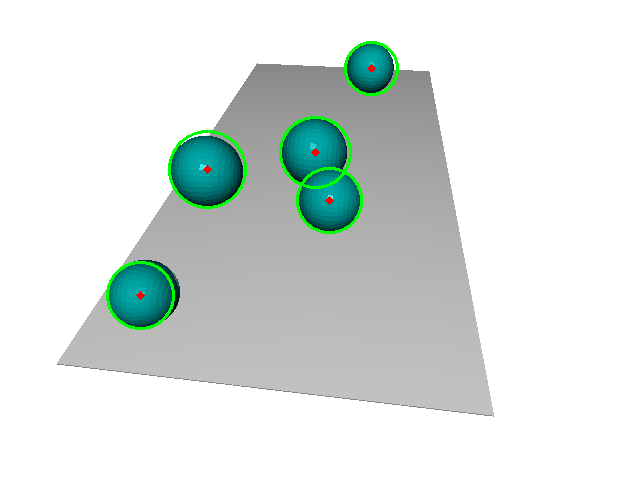
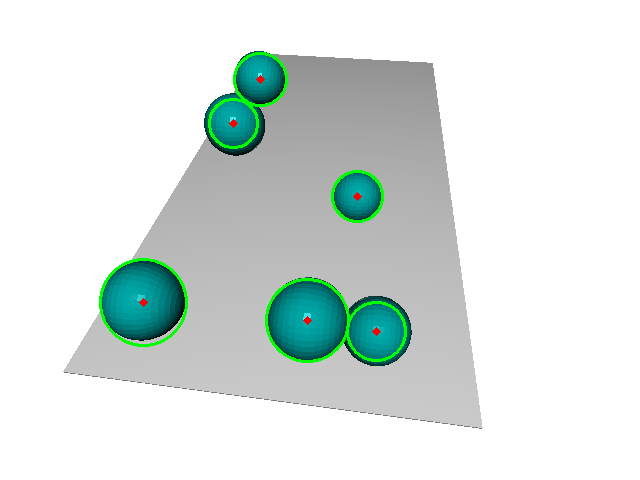
reconstruction and finish to task7

diff --git a/CWII2324-v2.py b/CWII2324-v2.py
@@ -304,7 +304,7 @@ if __name__ == '__main__':
     circles0 = detect_circles(img0)
     circles1 = detect_circles(img1)
     detected_centers0 = []
-
+    detected_centers1 = []
     # Process and display the results
     if circles0 is not None:
         circles0 = np.uint16(np.around(circles0))
@@ -322,6 +322,7 @@ if __name__ == '__main__':
             cv2.circle(img1, (i[0], i[1]), i[2], (0, 255, 0), 2)
             # Draw the center of the circle
             cv2.circle(img1, (i[0], i[1]), 2, (0, 0, 255), 3)
+            detected_centers1.append(np.array([i[0], i[1], 1]))
 
     # Save the images with the drawn circles
     cv2.imwrite('hough_circles_img0.png', img0)
@@ -339,76 +340,39 @@ if __name__ == '__main__':
     
     Write your code here
     '''
-    # # Define matrices for coordinate conversion
-    # sx = sy = 1  # Pixel sizes in Open3D are both 1
-    # Mpi = np.array([[sx, 0, -ox / f], [0, sy, -oy / f], [0, 0, 1]])
-    # Mip = np.linalg.inv(Mpi)
-    #
-    # # get coordinate transformation from cam1 to cam0
-    # H_10 = np.matmul(H0_wc, np.linalg.inv(H1_wc))
-    #
-    # # this gives P0=R10*P1+T10
-    # # hence P1=R10^T(P0-T10)
-    # R = H_10[:3, :3].T  # R10^T
-    # T = H_10[:3, 3]  # T10
-    #
-    # # form the cross pdt matrix S from T
-    # S = np.array([
-    #     [0, -T[2], T[1]],
-    #     [T[2], 0, -T[0]],
-    #     [-T[1], T[0], 0]
-    # ])
-    #
-    # # the essential matrix
-    # E = np.matmul(R, S)
-    # print('Essential Matrix')
-    # print(E)
-    #
-    # # use the pixel to image coordinate matrix to compute the fundamental matrix
-    # F = np.matmul(np.matmul(Mpi.T, E), Mpi)
-    # print('Fundamental Matrix:')
-    # print(F)
-
-    # sx=sy=1
     Mpi=np.linalg.inv(K.intrinsic_matrix)
     # now compute matrix which converts iamge coordinates to pixel coordinates
-    # Mip=np.linalg.inv(Mpi)
 
     H_10 = np.matmul(H0_wc, np.linalg.inv(H1_wc))
 
     # this gives P0=R10*P1+T10
-    # hence P1=R10^T(P0-T10) which is in the same the form as slide 3, lec 2
+    # hence P1=R10^T(P0-T10) which is in the same the form
     # hence
     R = H_10[:3, :3].T # R10^T
     T = H_10[:3, 3] # T10
 
-    # now form the cross pdt matrix S from T - slide 9, lec 2
+    # now form the cross pdt matrix S from T
     S = np.array([
         [0, -T[2], T[1]],
         [T[2], 0, -T[0]],
         [-T[1], T[0], 0]
     ])
 
-    # and hence the essential matrix as per slide 11, lec 2
+    # and hence the essential matrix
     E = np.matmul(R, S)
     print('Essential Matrix')
     print(E)
 
-    # now use the pixel to image coordinate matrix to compute the
-    # fundamental matrix as per slide 5, lec 3
+    # now use the pixel to image coordinate matrix to compute the fundamental matrix
     F = np.matmul(np.matmul(Mpi.T, E), Mpi)
     print('Fundamental Matrix:')
     print(F)
     # detected_centers0 = [circle[:2] for circle in circles0[0, :]]
     # detected_centers1 = [circle[:2] for circle in circles1[0, :]]
 
+    epipolar_lines = []
     img = cv2.imread('hough_circles_img1.png')
     for pt1_img0 in detected_centers0:
-        # Extract center coordinates
-        # x0, y0 = circle
-
-        # Convert to homogeneous coordinates
-        # pt1_img0 = np.array([x0, y0, 1])
 
         # Calculate corresponding epipolar line in image1
         print(pt1_img0)
@@ -421,6 +385,9 @@ if __name__ == '__main__':
         p0 = np.array([0, m*0+c]).astype(int)
         p1 = np.array([img_width, m*img_width+c]).astype(int)
         print(p0, p1)
+        # Store the epipolar line points
+        epipolar_lines.append((p0, p1))
+
         # Draw the line in image1
         img = cv2.line(img, p0, p1, (255, 0, 0), 1)
 
@@ -434,37 +401,37 @@ if __name__ == '__main__':
 
     Write your code here
     '''
-    # Detect circles in both images (already done in Task 3)
-    circles0 = detect_circles(img0)
-    circles1 = detect_circles(img1)
+    correspondences = []
 
-    # Extract circle centers
-    centers0 = np.array([(x, y) for (x, y, r) in circles0[0, :]])
-    centers1 = np.array([(x, y) for (x, y, r) in circles1[0, :]])
+    for center0, (p0, p1) in zip(detected_centers0, epipolar_lines):
+        # Create an epipolar line equation: ax + by + c = 0
+        # p0 and p1 are two points on the line
+        line = np.cross(np.append(p0, 1), np.append(p1, 1))
 
-    # Prepare data for RANSAC
-    pairs = []
-    for i, center1 in enumerate(centers1):
-        for j, center0 in enumerate(centers0):
-            pairs.append((i, j))
+        min_distance = float('inf')
+        corresponding_center = None
 
-    # Run RANSAC to find the best correspondences
-    if len(pairs) >= 4:
-        src_pts = np.float32([centers1[i] for (i, j) in pairs]).reshape(-1, 1, 2)
-        dst_pts = np.float32([centers0[j] for (i, j) in pairs]).reshape(-1, 1, 2)
+        for center1 in detected_centers1:
+            # Convert center to homogeneous coordinates
+            point = np.append(center1[:2], 1)
 
-        # Using RANSAC to find the homography matrix
-        H, status = cv2.findHomography(src_pts, dst_pts, cv2.RANSAC, 5.0)
+            # Check the epipolar constraint: P_R^T F P_L = 0
+            # In this case, line is the equivalent of P_R^T F
+            distance = abs(np.dot(line, point)) / np.linalg.norm(line[:2])
 
-        # Filter out the pairs using the status output
-        good_pairs = [(pairs[i][0], pairs[i][1]) for i in range(len(pairs)) if status[i]]
+            # Find the point with minimum distance to the epipolar line
+            if distance < min_distance:
+                min_distance = distance
+                corresponding_center = center1
 
-        # Print or process the good pairs
-        for i, j in good_pairs:
-            print(f"Circle in view1: {circles1[0, i]}, Corresponding circle in view0: {circles0[0, j]}")
-    else:
-        print("Not enough pairs for RANSAC.")
-    ###################################
+        # If a corresponding center is found, store the correspondence
+        if corresponding_center is not None:
+            correspondences.append((center0, corresponding_center))
+            print(f"Correspondence found: Image 0 Center: {center0}, Image 1 Center: {corresponding_center}")
+    print("\nAll Correspondences:")
+    for corr in correspondences:
+        print(f"Image 0 Center: {corr[0]}, Image 1 Center: {corr[1]}")
+        ###################################
 
 
     ###################################
@@ -480,36 +447,25 @@ if __name__ == '__main__':
 
     reconstructed_centers = []
 
-    for i, j in good_pairs:  # Loop through the good pairs obtained from Task 5
-        # Get the corresponding circle centers
-        pL = centers1[i]
-        pR = centers0[j]
+    for (pL, pR) in correspondences:  # Loop through the good pairs obtained from Task 5
 
         # Convert image points to normalized device coordinates
         pL_n = np.linalg.inv(K_matrix) @ np.array([pL[0], pL[1], 1])
         pR_n = np.linalg.inv(K_matrix) @ np.array([pR[0], pR[1], 1])
 
-        # Get rotation and translation from camera 1 to camera 0
-        R = H0_wc[:3, :3].T  # Transpose of rotation matrix
-        T = H0_wc[:3, 3]  # Translation vector
-
         # Compute cross product
-        pL_cross_pR = np.cross(pL_n, R @ pR_n)
+        pL_cross_pR = np.cross(pL_n, np.matmul(R, pR_n))
 
         # Form the linear system Ax = 0
-        A = np.array([
-            pL_n,  # a*pL
-            -R.T @ pR_n,  # -b*R^T*pR
-            -pL_cross_pR  # -c*(pL x R^T*pR)
-        ]).T
+        A = np.column_stack([pL_n, -np.matmul(R.T, pR_n), -pL_cross_pR])
 
-        b = T  # T vector
+        b = -T.reshape(3, 1)  # Make sure T is a column vector
 
         # Solve the linear system using least squares
-        x, residuals, rank, s = np.linalg.lstsq(A, b, rcond=None)
+        x, _, _, _ = np.linalg.lstsq(A, b, rcond=None)
 
         # a, b, and c are the components of the solution x
-        a, b, c = x
+        a, b, c = x.flatten()  # Flatten in case x is a 2D array
 
         # Reconstruct the 3D point
         X = a * pL_n - c * pL_cross_pR
